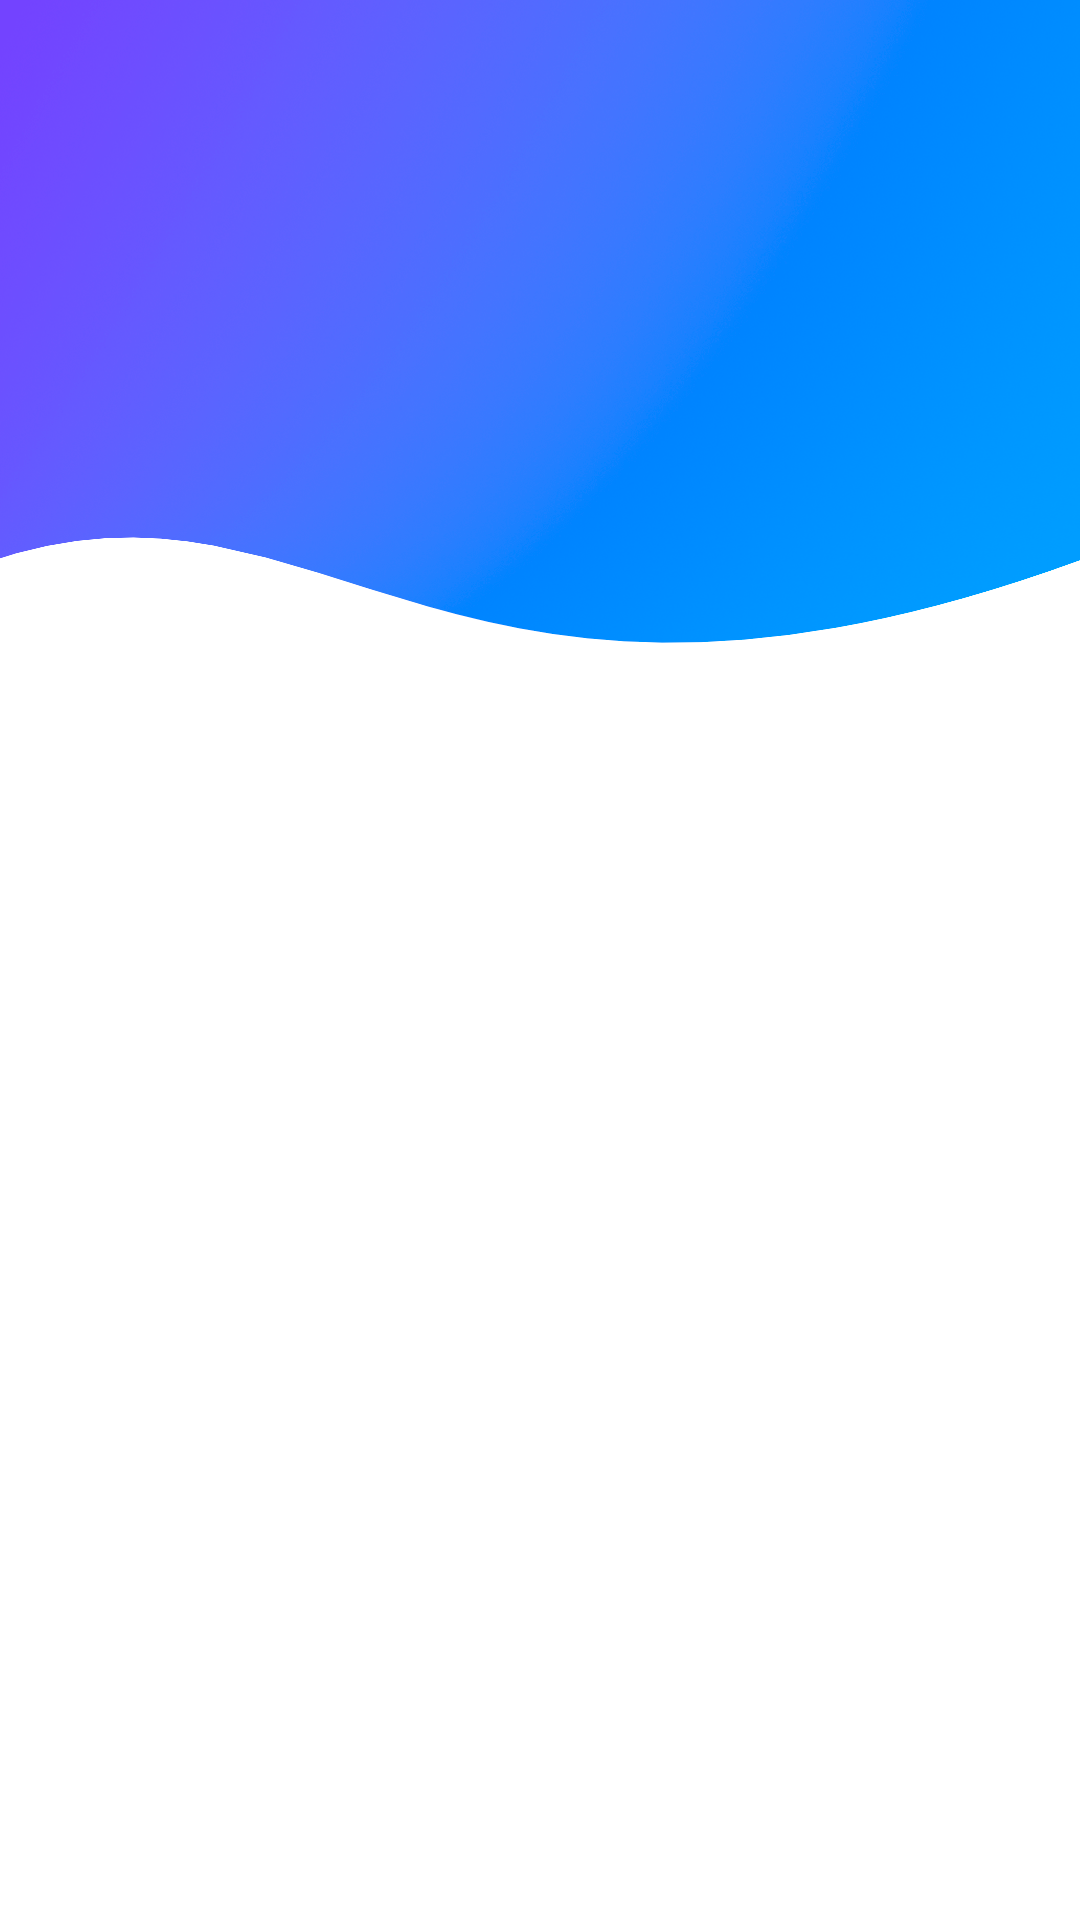
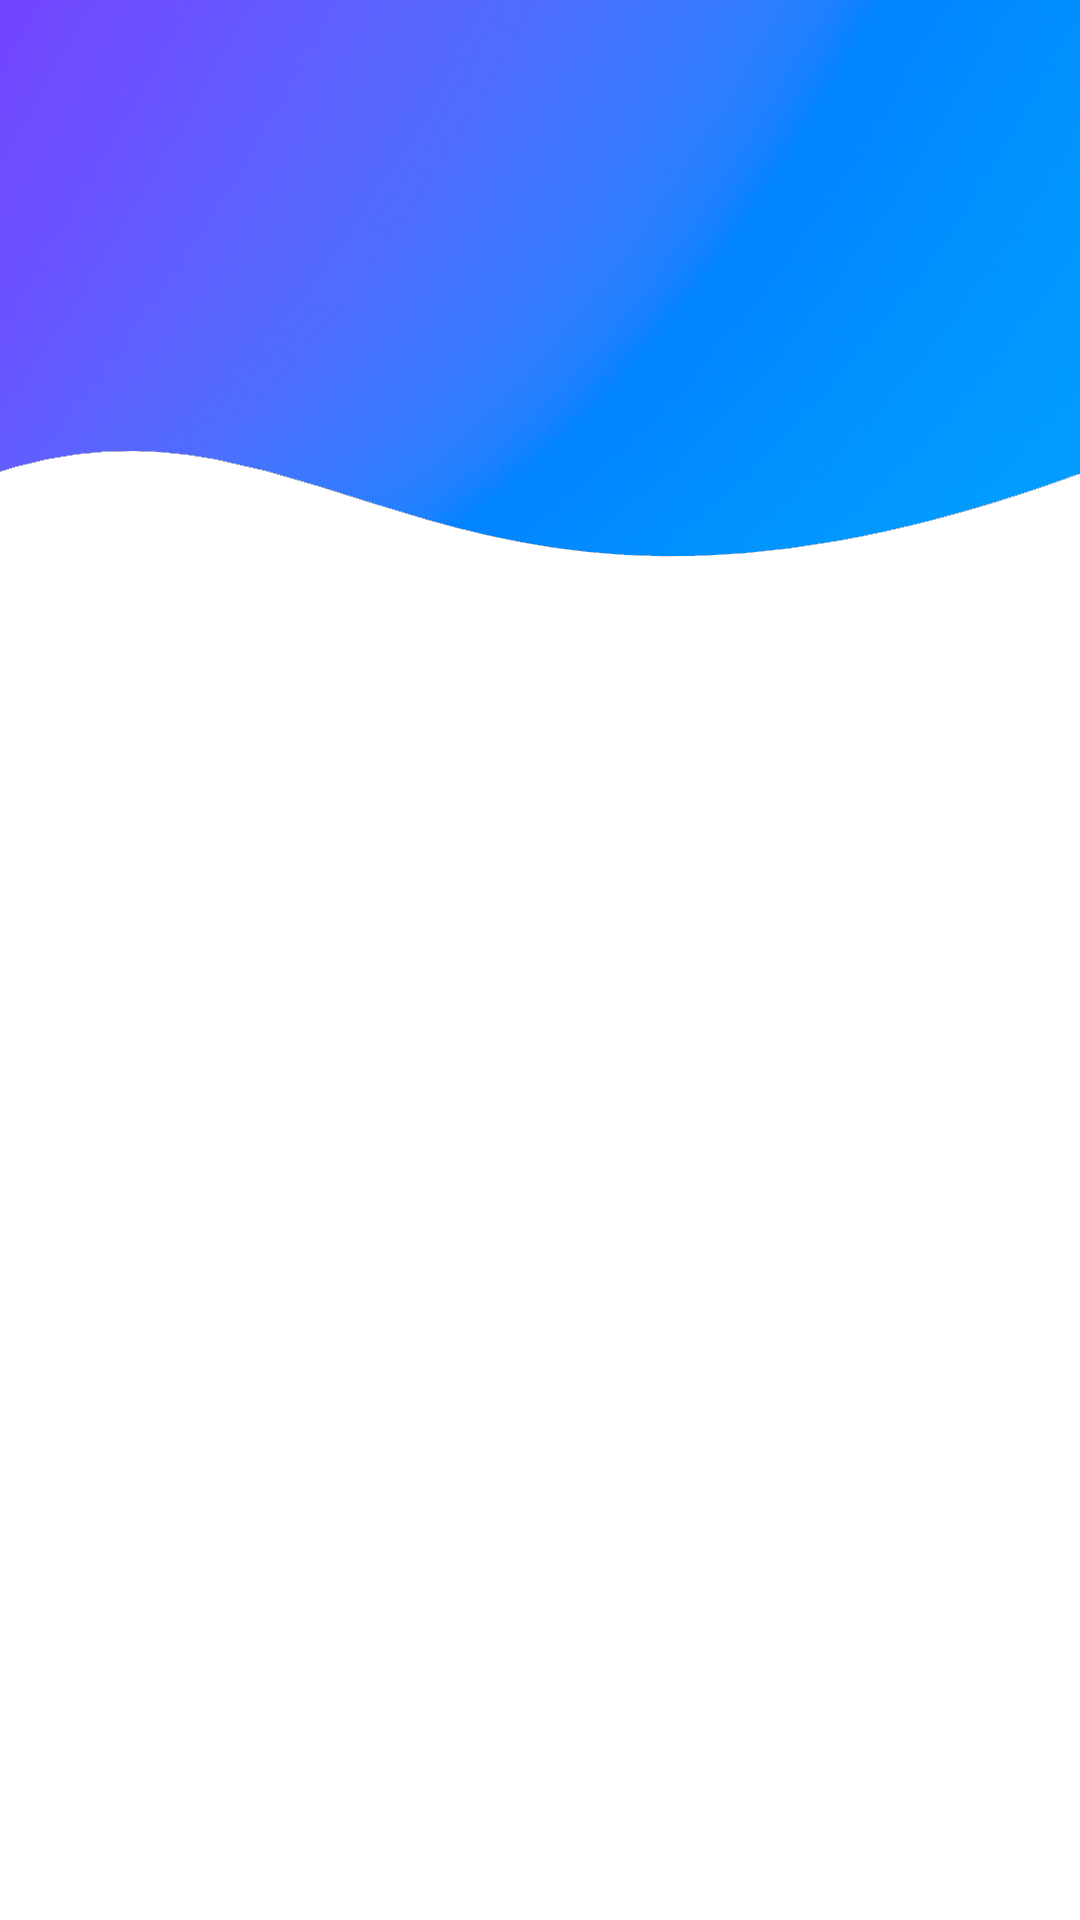
RegistrApp 2.1.2

Changed region(s): [[0.0, 0.0, 1.0, 0.3438]]

diff --git a/src/app/inicio-alumnos/inicio-alumnos.page.scss b/src/app/inicio-alumnos/inicio-alumnos.page.scss
@@ -1,18 +1,66 @@
-.BienvenidaTXT{
+ion-content.home{
+    --background: url('/assets/imagenes/background/bgHome.png') 0 0/100% 100% no-repeat;
+}
+
+.divhome{
+    width: 100%;
+    height: 10vh;
     display: flex;
-    flex-direction: row;
-    justify-content: space-between;
-    margin: 10px;
-}	
-.BienvenidaTXT h1{
-    font-size: 30px;
+    justify-content: center;
+    align-items: center;
+}
+.tituloHome{
+    font-family: 'Franklin Gothic Medium', 'Arial Narrow', Arial, sans-serif;
+    display: flex;
+    justify-content: center;
+    align-items: center;
+    font-size: 40px;
+    font-weight: bolder;
+    color: white;
+    text-align: center;
+    width: 100%;
+    height: 15%;
+    
+}
+
+
+.carrusel{
+    background-image: url('/assets/imagenes/background/testCarrusel.png');
+    background-size: cover;
+    background-position: center;
+    width: 100%;
+    height: 234px;
+}
+
+.botonesHome {
+    display: grid;
+    grid-template-rows: repeat(2, 1fr); /* Crea dos filas de igual altura */
+    justify-content: space-around; /* Distribuye el espacio horizontalmente */
+    align-content: space-around; /* Distribuye el espacio verticalmente */ /* Espacio entre los botones */
+    width: 100%;
+    height: 45%; /* Ajusta la altura según sea necesario */
+    justify-items: center; /* Centra los botones horizontalmente en su celda */
+    align-items: center; /* Centra los botones verticalmente en su celda */
+  }
+  
+  .boton1 {
+    color: white;
+    border: none;
+    border-radius: 20px;
+    width: 400px;
+    height: 150px;
+    font-size: 20px;
     font-weight: bold;
-    margin-top: 10px;
-    margin-bottom: 10px;  
-    color: grey ;  
-}
-.lineaSeparadora{
-    border-bottom: 1px solid #000;
-    margin-top: 10px;
-    margin-bottom: 10px;
-}
+    text-align: center;
+  }
+  
+  .boton2 {
+    color: white;
+    border: none;
+    border-radius: 20px;
+    width: 400px;
+    height: 150px;
+    font-size: 20px;
+    font-weight: bold;
+    text-align: center;
+  }

diff --git a/src/app/inicio-alumnos/inicio-alumnos.page.html b/src/app/inicio-alumnos/inicio-alumnos.page.html
@@ -1,4 +1,10 @@
-<ion-content [fullscreen]="true">
-  <div class="BienvenidaTXT"> <h1>Bienvenido  Alumno</h1> <button> Cerrar Sesion</button></div>
-  <div class="lineaSeparadora"></div>
+<ion-content padding class="home" [fullscreen]="true">
+  <div class="divhome"><h1 class="tituloHome">RegistrApp</h1></div>
+  <hr><hr>
+  <div class="carrusel"></div>
+
+  <div class="botonesHome">
+    <ion-button class="boton1" color="medium">Marcar Asistencia</ion-button>
+    <ion-button class="boton2" color="medium">Justificar Inasistencia</ion-button>
+  </div>
 </ion-content>

diff --git a/src/app/inicio-alumnos/inicio-alumnos.page.ts b/src/app/inicio-alumnos/inicio-alumnos.page.ts
@@ -1,4 +1,5 @@
 import { Component, OnInit } from '@angular/core';
+import { Router } from '@angular/router';
 
 @Component({
   selector: 'app-inicio-alumnos',
@@ -7,9 +8,15 @@ import { Component, OnInit } from '@angular/core';
 })
 export class InicioAlumnosPage implements OnInit {
 
-  constructor() { }
+  constructor(private router: Router) { }
 
   ngOnInit() {
   }
 
+  cerrarSesion() {
+    localStorage.removeItem('user');
+    localStorage.removeItem('tipoUsuario');
+
+    this.router.navigate(['/login']);
+  }
 }
